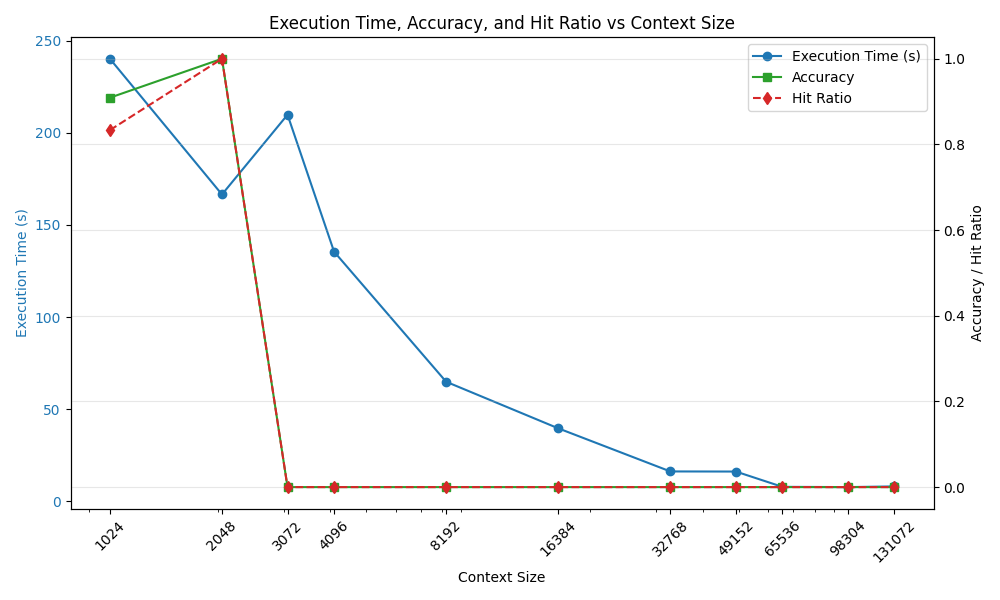
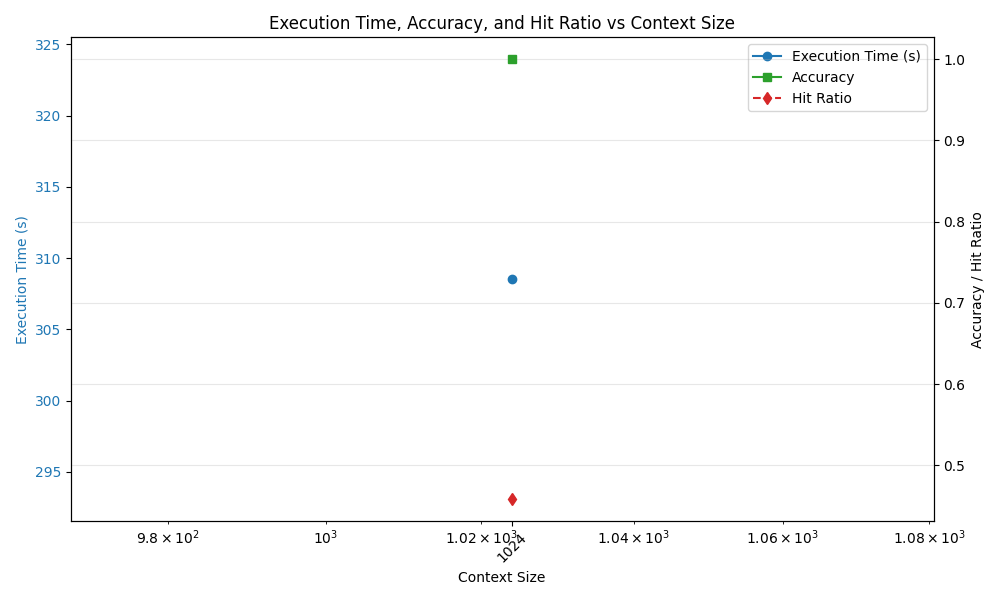
feat: updated to Gemma4:26b LLM model

diff --git a/tests/test_table_reclamation.py b/tests/test_table_reclamation.py
@@ -20,7 +20,7 @@ dotenv.load_dotenv()
 ################# For Tiktoken tokenizer #################
 
 
-def chunk_with_header(text, max_tokens=1500, model="gpt-4"):
+def chunk_with_header(text, max_tokens, model="gpt-4"):
     enc = tiktoken.encoding_for_model(model)
 
     lines = text.split("\n")
@@ -131,6 +131,20 @@ def test_generate_prompt(planner_mathe_split: AccessPlanner, question: str):
             for i in range(len(DocumentReader.pages)):
                 text += DocumentReader.pages[i].extract_text()
 
+            # Optional: CSV
+            # import csv
+            # from pathlib import Path
+
+            # file_path = Path(
+            #     "/workspaces/Table-Reclamation-Demo/data/mathe_splitted/mathe.assessment_10.csv")
+
+            # text = ""
+            # with open(file_path, mode='r', encoding='utf-8') as f:
+            #     reader = csv.reader(f)
+            #     for row in reader:
+            #         # Join all columns in the row with a space, then add a newline
+            #         text += " ".join(row) + "\n"
+
             ##### Option) MULTIPROCESSING PDF READING #####
             # DocumentReader = PdfReader(file_path)
             # num_pages = len(DocumentReader.pages)
@@ -142,8 +156,9 @@ def test_generate_prompt(planner_mathe_split: AccessPlanner, question: str):
 
             # Testing with various context length (starting from 1 to doubling up to 128000) and plot the execution_time, hit_ratio, accuracy depending n the context length.
             ############ Step2. tiktoken setup ############
-            context_sizes = [2**i for i in range(10, 18)]  # 1024 → 131072
-            context_sizes.extend([3072, 49152, 98304])
+            context_sizes = [2**i for i in range(12, 13)]  # 1024 → 131072
+            # context_sizes.extend([98304])
+            # context_sizes.extend([72100, 81920, 90000, 98304, 104857, 114688])
             context_sizes.sort()
             results_log = []
 
@@ -158,9 +173,9 @@ def test_generate_prompt(planner_mathe_split: AccessPlanner, question: str):
                     print(f"Processing chunk {i}/{len(chunks)}")
 
                     response = completion(
-                        model="ollama/gemma4:e4b",
+                        model="ollama/gemma4:26b",
                         # enable the model to reason about the SQL execution steps, but not too much to avoid hallucination.
-                        reasoning_effort="medium",
+                        # reasoning_effort="medium",
                         messages=[
                             {"role": "system", "content": """
                                 You are a deterministic SQL execution engine.
@@ -331,7 +346,9 @@ def test_generate_prompt(planner_mathe_split: AccessPlanner, question: str):
                 })
 
             import matplotlib.pyplot as plt
+            from matplotlib.ticker import ScalarFormatter
 
+            # (Assuming results_log is defined here)
             sizes = [r["context_size"] for r in results_log]
             times = [r["execution_time"] for r in results_log]
             accuracy = [r["accuracy"] for r in results_log]
@@ -345,10 +362,19 @@ def test_generate_prompt(planner_mathe_split: AccessPlanner, question: str):
             ax1.set_xlabel('Context Size')
             ax1.set_ylabel('Execution Time (s)', color='tab:blue')
             ax1.tick_params(axis='y', labelcolor='tab:blue')
+
+            # --- X-Axis Formatting ---
             ax1.set_xscale("log")
             ax1.set_xticks(sizes)
-            ax1.xaxis.set_major_formatter(ScalarFormatter())
-            plt.xticks(rotation=45)
+
+            # 2. Apply the formatter and disable scientific notation
+            formatter = ScalarFormatter()
+            formatter.set_scientific(False)
+            ax1.xaxis.set_major_formatter(formatter)
+
+            # 3. Use ax1 instead of plt for rotation to keep it attached to this specific axis
+            ax1.tick_params(axis='x', rotation=45)
+            # -------------------------
 
             # Secondary Y-axis for Accuracy and Hit Ratio
             ax2 = ax1.twinx()
@@ -367,16 +393,16 @@ def test_generate_prompt(planner_mathe_split: AccessPlanner, question: str):
             plt.title("Execution Time, Accuracy, and Hit Ratio vs Context Size")
             plt.grid(True, which="both", ls="-", alpha=0.3)
             fig.tight_layout()
-            plt.show()
 
-            print(results_log)
+            # Save and show
             plt.savefig("metrics_plot.png")
+            plt.show()
             plt.close()
 
 
 def test_litellm():
     response = completion(
-        model="ollama/gemma4:e4b",
+        model="ollama/gemma4:26b",
         messages=[
             {"content": "respond in 20 words. who are you?", "role": "user"}],
         api_base="http://host.docker.internal:11434"
